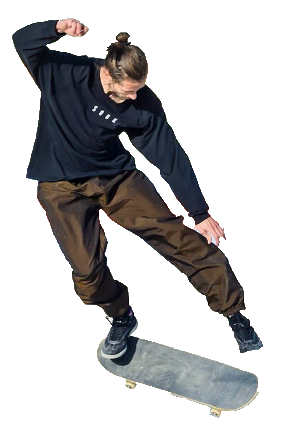
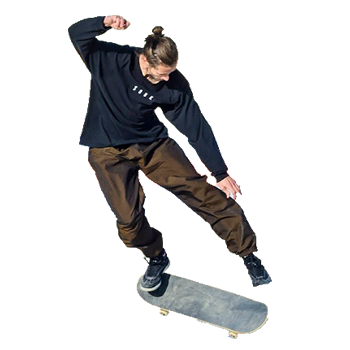
More design

Changed region(s): [[0.0312, 0.0286, 0.9062, 0.9714]]

diff --git a/src/components/Landing.js b/src/components/Landing.js
@@ -13,8 +13,10 @@ const Landing = () => (
             <div className="section">
               <div className="landing-container">
                 <Navbar />
-                <div className="side-text">Meet the team</div>
-                <div className="title">Adidas Skateboarding</div>
+                <div className="landing-text">
+                  <div className="side-text">Meet the team</div>
+                  <div className="title">Adidas Skateboarding</div>
+                </div>
             </div>
           </div>
           <div className="section">
@@ -33,14 +35,11 @@ const Landing = () => (
                     <div className="number">01</div>
                     <div className="name">Gustav Tønnesen</div>
                     <div className="text">
-                      Gustav Tønnesen is a norwegian skateboarder.
-                      He does alot of techinical tricks.
-                      Gustav Tønnesen is a norwegian skateboarder.
-                      He does alot of techinical tricks.
-                      Gustav Tønnesen is a norwegian skateboarder.
-                      He does alot of techinical tricks.
-                      Gustav Tønnesen is a norwegian skateboarder.
-                      He does alot of techinical tricks.
+                      Coming through the ranks of the highly successful Swedish skate brand Sweet, this humble,
+                      quiet Norwegian has let his skateboarding do all the talking. Like many European skaters,
+                      Gustav migrated to the skate mecca of Barcelona. Now riding for Sour and making his full debut in Away Days,
+                      we can’t wait for the next installment.
+                      <br />
                       <b>Read Full Bio</b>
                     </div>
                   </div>
@@ -49,7 +48,30 @@ const Landing = () => (
             </div>
           </div>
           <div className="section">
-            <p>Section 3</p>
+            <div className="skater1">
+              <div className="content">
+                <Fade left>
+                  <div className="text-box">
+                    <div className="number">02</div>
+                    <div className="name">Tyshaw Jones</div>
+                    <div className="text">
+                      Tyshawn Jones isn’t even old enough to vote and he’s already laid the groundwork for a lasting legacy.
+                      With standout footage in Supreme’s Cherry and subsequent web edits, things are looking good for TJ.
+                      <br />
+                      <b>Read Full Bio</b>
+                    </div>
+                  </div>
+                </Fade>
+                <div className="skater">
+                  <Fade right>
+                    <img src={'./images/tyshaw.png'} alt="gustav"/>
+                  </Fade>
+                  <Fade>
+                    <span className="dot" />
+                  </Fade>
+                </div>
+              </div>
+            </div>
           </div>
         </ReactFullpage.Wrapper>
       );

diff --git a/src/styles/_landing.scss b/src/styles/_landing.scss
@@ -3,31 +3,43 @@
   background-color: #fcfaa3;
   text-align: center;
 
-  .side-text {
-    padding-top: 100px;
-    font-size: 30px;
-  }
 
-  .title {
-    font-size: 5em;
+  .landing-text {
+    position: absolute;
+    height:auto;
+    left:30%;
+    top:45%;
+    margin-left: -160px;
+    margin-top: -90px;
+    text-align: left;
+
+    .side-text {
+      font-size: 30px;
+      font-family: 'Fjalla One', sans-serif;
+    }
+
+    .title {
+      font-family: 'Fjalla One', sans-serif;
+      text-transform: uppercase;
+      font-size: 7em;
+    }
   }
 }
 
 .skater1 {
-  height: 100vh;
   background-color: #fff;
   text-align: center;
+  margin-top: -90px;
+
   
   .content {
-    margin-top: 20%;
     .skater {
       display: inline-block;
-
       img {
         position: absolute;
         z-index: 2;
-        width: 200px;
-        height: 300px;
+        width: 350;
+        height: 350px;
       }
       .dot {
         position: relative;
@@ -40,7 +52,7 @@
       }
     }
     .text-box {
-      border: 1px solid black;
+      //border: 1px solid black;
       display: inline-block;
       width: 500px;
       text-align: left;
@@ -51,16 +63,17 @@
         padding: 15px 15px;
         background-color: #fcfaa3;
         font-size: 40px;
-        font-family: 'Rubik Mono One', sans-serif;
+        font-family: 'Fjalla One', sans-serif;
       }
       .name {
         text-transform: uppercase;
-        font-family: 'Rubik Mono One', sans-serif;
+        font-family: 'Fjalla One', sans-serif;
         margin-left: 20px;
         display: inline-block;
-        font-size: 25px;
+        font-size: 40px;
       }
       .text {
+        font-size: 20px;
         margin-left: 10px;
         margin-top: 10px;
         b {

diff --git a/public/index.html b/public/index.html
@@ -21,6 +21,7 @@
     -->
     <link rel="stylesheet" href="https://cdnjs.cloudflare.com/ajax/libs/animate.css/3.7.2/animate.min.css">
     <link href="https://fonts.googleapis.com/css?family=Alegreya+Sans|Roboto+Condensed&display=swap" rel="stylesesheet">
+    <link href="https://fonts.googleapis.com/css?family=Fjalla+One&display=swap" rel="stylesheet">
     <link rel="stylesheet" href="https://use.fontawesome.com/releases/v5.6.3/css/all.css" integrity="sha384-UHRtZLI+pbxtHCWp1t77Bi1L4ZtiqrqD80Kn4Z8NTSRyMA2Fd33n5dQ8lWUE00s/" crossorigin="anonymous">
     <link href="https://fonts.googleapis.com/css?family=Rubik+Mono+One&display=swap" rel="stylesheet">
     <title>Adidas Skateboarding</title>

diff --git a/src/components/Navbar.js b/src/components/Navbar.js
@@ -10,9 +10,9 @@ function Navbar() {
           <div className="nav-item">Videoes</div>
         </div>
         <div className="socials">
-          <div className="nav-item"><i class="fab fa-facebook-f"></i></div>
-          <div className="nav-item"><i class="fab fa-instagram"></i></div>
-          <div className="nav-item"><i class="fab fa-youtube"></i></div>
+          <div className="nav-item"><i className="fab fa-facebook-f"></i></div>
+          <div className="nav-item"><i className="fab fa-instagram"></i></div>
+          <div className="nav-item"><i className="fab fa-youtube"></i></div>
         </div>
       </div>
     </div>
